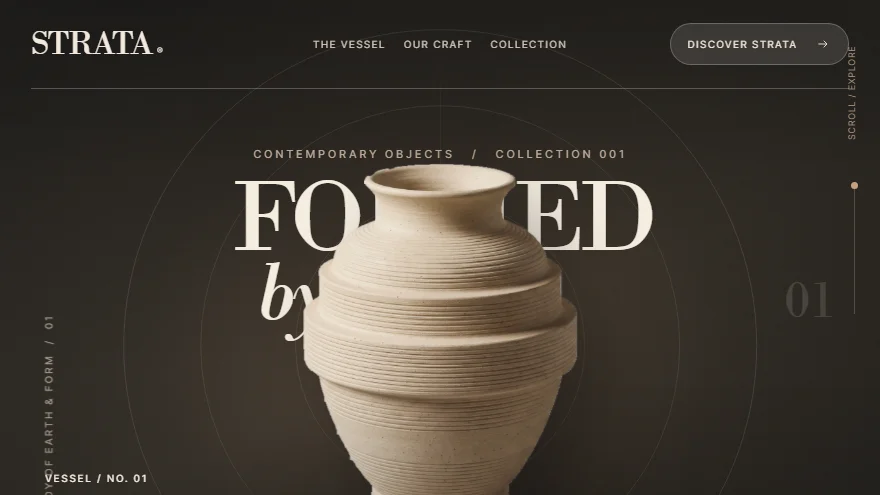
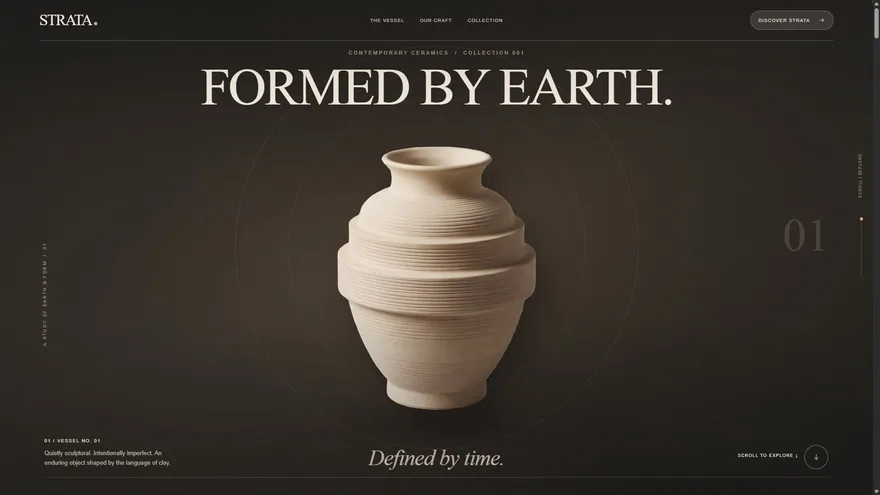
Fix heading clipping in Rooted template and refresh previews
- Increase heading line-height and bottom padding in Rooted to avoid
  clipping text descenders
- Reset reveal clip-path to none when visible
- Add E2E test verifying heading clearance and reveal styles
- Update gallery and template preview images

diff --git a/public/downloads/rooted.html b/public/downloads/rooted.html
@@ -68,7 +68,7 @@
     @keyframes ticker{from{transform:translate3d(0,0,0)}to{transform:translate3d(-50%,0,0)}}
     .intro{min-height:780px;padding:160px 0 120px;position:relative;background:#f8f6ec;overflow:hidden}
     .intro__grid{display:grid;grid-template-columns:1.15fr .7fr;align-items:center;gap:10vw}
-    .intro h2{font-family:var(--serif);font-size:clamp(62px,6.6vw,108px);font-weight:400;letter-spacing:-.072em;line-height:.94;margin:25px 0 0;max-width:810px}
+    .intro h2{font-family:var(--serif);font-size:clamp(62px,6.6vw,108px);font-weight:400;letter-spacing:-.072em;line-height:1.04;padding-bottom:0.18em;margin:25px 0 0;max-width:810px}
     .intro h2 i{font-weight:400;color:#869d79}
     .intro__aside{padding-top:105px}
     .intro__aside p{font-size:18px;line-height:1.75;max-width:380px;color:#506350}
@@ -115,7 +115,7 @@
     /* Interactive care lab */
     .lab{background:#f8f6ed;padding:135px 0 155px;overflow:hidden}
     .lab__intro{display:flex;align-items:end;justify-content:space-between;gap:42px;margin-bottom:70px}
-    .lab h2{font:400 clamp(57px,6.3vw,94px)/.97 var(--serif);letter-spacing:-.075em;max-width:850px;margin:22px 0 0}
+    .lab h2{font:400 clamp(57px,6.3vw,94px)/1.04 var(--serif);letter-spacing:-.075em;max-width:850px;padding-bottom:0.18em;margin:22px 0 0}
     .lab__intro p{max-width:310px;color:#637361;line-height:1.7;margin:0 0 8px}
     .lab__board{display:grid;grid-template-columns:.9fr 1fr;min-height:610px;background:#e6ecdf;border:1px solid #d7dfd1;border-radius:34px;overflow:hidden;box-shadow:0 28px 70px #2a4d2812}
     .lab__visual{position:relative;display:flex;flex-direction:column;align-items:center;justify-content:flex-end;padding:38px 20px 20px;background:radial-gradient(circle at 50% 35%,#f3f5e8 0%,#e7eddf 64%,#d3e0cb 100%);overflow:hidden}
@@ -153,7 +153,7 @@
     /* Guide section deliberately different from the pinned storytelling layout. */
     .guides{background:#e5e8da;padding:125px 0 145px}
     .guides__head{display:grid;grid-template-columns:1fr .55fr;gap:70px;align-items:end;margin-bottom:52px}
-    .guides h2{font:400 clamp(55px,6vw,94px)/.98 var(--serif);letter-spacing:-.072em;margin:20px 0 0}
+    .guides h2{font:400 clamp(55px,6vw,94px)/1.04 var(--serif);letter-spacing:-.072em;padding-bottom:0.18em;margin:20px 0 0}
     .guides__head p{line-height:1.7;color:#5b6e5c;max-width:360px;margin-bottom:8px}
     .guide-grid{display:grid;grid-template-columns:repeat(3,1fr);gap:16px}
     .guide-card{background:#f8f8f0;position:relative;text-align:left;border:1px solid #d4ddcb;padding:27px 26px 32px;min-height:365px;border-radius:19px;overflow:hidden;display:flex;flex-direction:column;align-items:flex-start;transition:transform .7s var(--ease),box-shadow .5s,border-color .3s;transform-style:preserve-3d;will-change:transform}
@@ -173,11 +173,11 @@
     .breath__img{position:absolute;inset:-12% 0;height:124%;width:100%;object-fit:cover;object-position:center;will-change:transform}
     .breath__wash{position:absolute;inset:0;background:linear-gradient(90deg,#f4f2e6b5 0%,#f4f2e640 42%,transparent 72%)}
     .breath__copy{position:relative;z-index:2;height:100%;display:flex;align-items:center}
-    .breath__copy h2{font:400 clamp(66px,7vw,126px)/.95 var(--serif);max-width:700px;letter-spacing:-.08em;margin:20px 0 0}
+    .breath__copy h2{font:400 clamp(66px,7vw,126px)/1.04 var(--serif);max-width:700px;letter-spacing:-.08em;padding-bottom:0.18em;margin:20px 0 0}
     /* FAQ, no fake testimonials or invented real app-store links */
     .faq{background:#f8f7f0;padding:135px 0 155px}
     .faq__grid{display:grid;grid-template-columns:.85fr 1fr;gap:11vw}
-    .faq h2{font:400 clamp(55px,5.5vw,86px)/1 var(--serif);letter-spacing:-.07em;margin:22px 0 24px}
+    .faq h2{font:400 clamp(55px,5.5vw,86px)/1.04 var(--serif);letter-spacing:-.07em;padding-bottom:0.18em;margin:22px 0 24px}
     .faq__lead{color:#72806d;line-height:1.7;max-width:330px}
     .faq__list{border-top:1px solid #ccd4c6}
     .faq__item{border-bottom:1px solid #ccd4c6}
@@ -190,7 +190,7 @@
     .final{background:#e5ebdb;position:relative;overflow:hidden;min-height:640px;display:flex;align-items:center}
     .final__image{position:absolute;width:65%;height:100%;right:-2%;top:0;object-fit:cover;object-position:63% center;mix-blend-mode:multiply;mask-image:linear-gradient(90deg,transparent 0%,#000 30%);-webkit-mask-image:linear-gradient(90deg,transparent 0%,#000 30%)}
     .final__copy{position:relative;z-index:2;padding:90px 0;width:min(1320px,calc(100% - 104px));margin:auto}
-    .final h2{font:400 clamp(62px,7vw,120px)/.92 var(--serif);letter-spacing:-.075em;margin:22px 0 24px;max-width:780px}
+    .final h2{font:400 clamp(62px,7vw,120px)/1.04 var(--serif);letter-spacing:-.075em;padding-bottom:0.18em;margin:22px 0 24px;max-width:780px}
     .final__copy p{font-size:17px;line-height:1.55;max-width:390px;margin-bottom:28px;color:#4e6550}
     .footer{background:var(--ink);color:#eff4e9;padding:70px 0 25px}
     .footer__top{display:grid;grid-template-columns:1.7fr repeat(3,1fr);gap:40px;padding-bottom:75px}
@@ -207,7 +207,7 @@
     .modal__badge{font-size:10px;text-transform:uppercase;letter-spacing:.18em;font-weight:750;color:#668369}
     /* Entry motion uses masked vertical movement and scale, not simple opacity fade. */
     .reveal{transform:translate3d(0,55px,0) scale(.965);clip-path:inset(0 0 11% 0);opacity:.9;transition:transform 1.1s var(--ease),clip-path 1s var(--ease),opacity .7s ease;will-change:transform}
-    .reveal.is-visible{transform:translate3d(0,0,0) scale(1);clip-path:inset(0 0 0 0);opacity:1}
+    .reveal.is-visible{transform:translate3d(0,0,0) scale(1);clip-path:none;opacity:1}
     @media(max-width:1100px){.header{padding-inline:36px}.hero__inner,.section-width,.final__copy{width:calc(100% - 72px)}.hero__note{left:36px}.hero__scroll{right:36px}.hero h1{font-size:clamp(64px,7vw,85px)}.story__sticky{padding-inline:36px}.story__body{gap:50px}.intro h2{font-size:77px}.story__panel h3{font-size:60px}}
     @media(max-width:800px){.header{height:76px;padding:0 23px}.header.is-scrolled{height:70px}.brand{font-size:30px}.nav-links,.header-cta{display:none}.menu-button{display:flex;margin-left:auto}.mobile-nav{display:flex;position:fixed;top:70px;left:0;right:0;padding:16px 24px 25px;flex-direction:column;gap:6px;background:#f8f6ebf9;box-shadow:0 18px 28px #12291621;transform:translateY(-18px);opacity:0;pointer-events:none;transition:opacity .3s,transform .4s var(--ease)}.mobile-nav.is-open{opacity:1;transform:translateY(0);pointer-events:auto}.mobile-nav a,.mobile-nav button{padding:13px 6px;background:none;border:0;border-bottom:1px solid #d7e0d1;text-align:left;color:var(--ink);font-size:16px}
       .hero{display:block;height:auto;max-height:none;min-height:0;padding-top:110px}.hero__art{position:relative;z-index:0;display:block;inset:auto;height:55vw;min-height:395px;max-height:610px;margin-top:-26px;background-size:cover;background-position:70% 50%}.hero__wash{display:none}.hero__inner{width:calc(100% - 48px);margin:0 auto;z-index:2}.hero__copy{width:100%;max-width:640px;padding:0}.hero__eyebrow{margin:0 0 19px;font-size:11px}.hero h1{font-size:clamp(61px,10vw,91px);margin-bottom:20px}.hero__description{font-size:17px;margin-bottom:25px;max-width:490px}.hero__note,.hero__scroll{display:none}

diff --git a/tests/e2e/rooted.spec.ts b/tests/e2e/rooted.spec.ts
@@ -99,6 +99,28 @@ test.describe("ROOTED gallery card and standalone document", () => {
     expect(await page.evaluate(() => document.documentElement.scrollWidth)).toBeLessThanOrEqual(390);
   });
 
+  test("section display headings have bottom clearance and are not clipped by reveals", async ({ page }) => {
+    await page.goto("/templates/rooted");
+
+    // Check display headings once revealed
+    for (const id of ["#introTitle", "#labTitle", "#guidesTitle", "#breathTitle", "#finalTitle"]) {
+      const heading = page.locator(id);
+      await heading.scrollIntoViewIfNeeded();
+      await page.waitForTimeout(600);
+
+      const metrics = await heading.evaluate((el) => {
+        const parent = el.closest(".reveal");
+        return {
+          clipPath: parent ? getComputedStyle(parent).clipPath : "none",
+          paddingBottom: parseFloat(getComputedStyle(el).paddingBottom),
+        };
+      });
+
+      expect(metrics.clipPath).toBe("none");
+      expect(metrics.paddingBottom).toBeGreaterThan(10);
+    }
+  });
+
   test("content is visible without JavaScript", async ({ browser }) => {
     const context = await browser.newContext({ javaScriptEnabled: false, viewport: { width: 390, height: 844 } });
     try {

diff --git a/public/copy/rooted.md b/public/copy/rooted.md
@@ -90,7 +90,7 @@ export function GET() {
     @keyframes ticker{from{transform:translate3d(0,0,0)}to{transform:translate3d(-50%,0,0)}}
     .intro{min-height:780px;padding:160px 0 120px;position:relative;background:#f8f6ec;overflow:hidden}
     .intro__grid{display:grid;grid-template-columns:1.15fr .7fr;align-items:center;gap:10vw}
-    .intro h2{font-family:var(--serif);font-size:clamp(62px,6.6vw,108px);font-weight:400;letter-spacing:-.072em;line-height:.94;margin:25px 0 0;max-width:810px}
+    .intro h2{font-family:var(--serif);font-size:clamp(62px,6.6vw,108px);font-weight:400;letter-spacing:-.072em;line-height:1.04;padding-bottom:0.18em;margin:25px 0 0;max-width:810px}
     .intro h2 i{font-weight:400;color:#869d79}
     .intro__aside{padding-top:105px}
     .intro__aside p{font-size:18px;line-height:1.75;max-width:380px;color:#506350}
@@ -137,7 +137,7 @@ export function GET() {
     /* Interactive care lab */
     .lab{background:#f8f6ed;padding:135px 0 155px;overflow:hidden}
     .lab__intro{display:flex;align-items:end;justify-content:space-between;gap:42px;margin-bottom:70px}
-    .lab h2{font:400 clamp(57px,6.3vw,94px)/.97 var(--serif);letter-spacing:-.075em;max-width:850px;margin:22px 0 0}
+    .lab h2{font:400 clamp(57px,6.3vw,94px)/1.04 var(--serif);letter-spacing:-.075em;max-width:850px;padding-bottom:0.18em;margin:22px 0 0}
     .lab__intro p{max-width:310px;color:#637361;line-height:1.7;margin:0 0 8px}
     .lab__board{display:grid;grid-template-columns:.9fr 1fr;min-height:610px;background:#e6ecdf;border:1px solid #d7dfd1;border-radius:34px;overflow:hidden;box-shadow:0 28px 70px #2a4d2812}
     .lab__visual{position:relative;display:flex;flex-direction:column;align-items:center;justify-content:flex-end;padding:38px 20px 20px;background:radial-gradient(circle at 50% 35%,#f3f5e8 0%,#e7eddf 64%,#d3e0cb 100%);overflow:hidden}
@@ -175,7 +175,7 @@ export function GET() {
     /* Guide section deliberately different from the pinned storytelling layout. */
     .guides{background:#e5e8da;padding:125px 0 145px}
     .guides__head{display:grid;grid-template-columns:1fr .55fr;gap:70px;align-items:end;margin-bottom:52px}
-    .guides h2{font:400 clamp(55px,6vw,94px)/.98 var(--serif);letter-spacing:-.072em;margin:20px 0 0}
+    .guides h2{font:400 clamp(55px,6vw,94px)/1.04 var(--serif);letter-spacing:-.072em;padding-bottom:0.18em;margin:20px 0 0}
     .guides__head p{line-height:1.7;color:#5b6e5c;max-width:360px;margin-bottom:8px}
     .guide-grid{display:grid;grid-template-columns:repeat(3,1fr);gap:16px}
     .guide-card{background:#f8f8f0;position:relative;text-align:left;border:1px solid #d4ddcb;padding:27px 26px 32px;min-height:365px;border-radius:19px;overflow:hidden;display:flex;flex-direction:column;align-items:flex-start;transition:transform .7s var(--ease),box-shadow .5s,border-color .3s;transform-style:preserve-3d;will-change:transform}
@@ -195,11 +195,11 @@ export function GET() {
     .breath__img{position:absolute;inset:-12% 0;height:124%;width:100%;object-fit:cover;object-position:center;will-change:transform}
     .breath__wash{position:absolute;inset:0;background:linear-gradient(90deg,#f4f2e6b5 0%,#f4f2e640 42%,transparent 72%)}
     .breath__copy{position:relative;z-index:2;height:100%;display:flex;align-items:center}
-    .breath__copy h2{font:400 clamp(66px,7vw,126px)/.95 var(--serif);max-width:700px;letter-spacing:-.08em;margin:20px 0 0}
+    .breath__copy h2{font:400 clamp(66px,7vw,126px)/1.04 var(--serif);max-width:700px;letter-spacing:-.08em;padding-bottom:0.18em;margin:20px 0 0}
     /* FAQ, no fake testimonials or invented real app-store links */
     .faq{background:#f8f7f0;padding:135px 0 155px}
     .faq__grid{display:grid;grid-template-columns:.85fr 1fr;gap:11vw}
-    .faq h2{font:400 clamp(55px,5.5vw,86px)/1 var(--serif);letter-spacing:-.07em;margin:22px 0 24px}
+    .faq h2{font:400 clamp(55px,5.5vw,86px)/1.04 var(--serif);letter-spacing:-.07em;padding-bottom:0.18em;margin:22px 0 24px}
     .faq__lead{color:#72806d;line-height:1.7;max-width:330px}
     .faq__list{border-top:1px solid #ccd4c6}
     .faq__item{border-bottom:1px solid #ccd4c6}
@@ -212,7 +212,7 @@ export function GET() {
     .final{background:#e5ebdb;position:relative;overflow:hidden;min-height:640px;display:flex;align-items:center}
     .final__image{position:absolute;width:65%;height:100%;right:-2%;top:0;object-fit:cover;object-position:63% center;mix-blend-mode:multiply;mask-image:linear-gradient(90deg,transparent 0%,#000 30%);-webkit-mask-image:linear-gradient(90deg,transparent 0%,#000 30%)}
     .final__copy{position:relative;z-index:2;padding:90px 0;width:min(1320px,calc(100% - 104px));margin:auto}
-    .final h2{font:400 clamp(62px,7vw,120px)/.92 var(--serif);letter-spacing:-.075em;margin:22px 0 24px;max-width:780px}
+    .final h2{font:400 clamp(62px,7vw,120px)/1.04 var(--serif);letter-spacing:-.075em;padding-bottom:0.18em;margin:22px 0 24px;max-width:780px}
     .final__copy p{font-size:17px;line-height:1.55;max-width:390px;margin-bottom:28px;color:#4e6550}
     .footer{background:var(--ink);color:#eff4e9;padding:70px 0 25px}
     .footer__top{display:grid;grid-template-columns:1.7fr repeat(3,1fr);gap:40px;padding-bottom:75px}
@@ -229,7 +229,7 @@ export function GET() {
     .modal__badge{font-size:10px;text-transform:uppercase;letter-spacing:.18em;font-weight:750;color:#668369}
     /* Entry motion uses masked vertical movement and scale, not simple opacity fade. */
     .reveal{transform:translate3d(0,55px,0) scale(.965);clip-path:inset(0 0 11% 0);opacity:.9;transition:transform 1.1s var(--ease),clip-path 1s var(--ease),opacity .7s ease;will-change:transform}
-    .reveal.is-visible{transform:translate3d(0,0,0) scale(1);clip-path:inset(0 0 0 0);opacity:1}
+    .reveal.is-visible{transform:translate3d(0,0,0) scale(1);clip-path:none;opacity:1}
     @media(max-width:1100px){.header{padding-inline:36px}.hero__inner,.section-width,.final__copy{width:calc(100% - 72px)}.hero__note{left:36px}.hero__scroll{right:36px}.hero h1{font-size:clamp(64px,7vw,85px)}.story__sticky{padding-inline:36px}.story__body{gap:50px}.intro h2{font-size:77px}.story__panel h3{font-size:60px}}
     @media(max-width:800px){.header{height:76px;padding:0 23px}.header.is-scrolled{height:70px}.brand{font-size:30px}.nav-links,.header-cta{display:none}.menu-button{display:flex;margin-left:auto}.mobile-nav{display:flex;position:fixed;top:70px;left:0;right:0;padding:16px 24px 25px;flex-direction:column;gap:6px;background:#f8f6ebf9;box-shadow:0 18px 28px #12291621;transform:translateY(-18px);opacity:0;pointer-events:none;transition:opacity .3s,transform .4s var(--ease)}.mobile-nav.is-open{opacity:1;transform:translateY(0);pointer-events:auto}.mobile-nav a,.mobile-nav button{padding:13px 6px;background:none;border:0;border-bottom:1px solid #d7e0d1;text-align:left;color:var(--ink);font-size:16px}
       .hero{display:block;height:auto;max-height:none;min-height:0;padding-top:110px}.hero__art{position:relative;z-index:0;display:block;inset:auto;height:55vw;min-height:395px;max-height:610px;margin-top:-26px;background-size:cover;background-position:70% 50%}.hero__wash{display:none}.hero__inner{width:calc(100% - 48px);margin:0 auto;z-index:2}.hero__copy{width:100%;max-width:640px;padding:0}.hero__eyebrow{margin:0 0 19px;font-size:11px}.hero h1{font-size:clamp(61px,10vw,91px);margin-bottom:20px}.hero__description{font-size:17px;margin-bottom:25px;max-width:490px}.hero__note,.hero__scroll{display:none}
